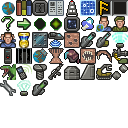
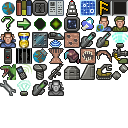
#588 Adds leader information to planet list view.
Adds tool tips to planet list view.

Changed region(s): [[0.375, 0.625, 0.5, 0.75]]

diff --git a/src/main/java/org/openRealmOfStars/gui/labels/PlanetInfoLabel.java b/src/main/java/org/openRealmOfStars/gui/labels/PlanetInfoLabel.java
@@ -95,9 +95,11 @@ public class PlanetInfoLabel extends EmptyInfoPanel {
     }
     IconLabel icon = new IconLabel(null, Icons.getIconByName(Icons.ICON_PEOPLE),
         String.valueOf(planet.getTotalPopulation()));
+    icon.setToolTipText("Planet's current population number.");
     addIcon(icon);
     icon = new IconLabel(null, Icons.getIconByName(Icons.ICON_FARM),
         String.valueOf(planet.getTotalProduction(Planet.PRODUCTION_FOOD)));
+    icon.setToolTipText("Planet's total food per star year.");
     int metalProd = planet.getTotalProduction(Planet.PRODUCTION_METAL);
     if (planet.getPlanetPlayerInfo() != null
         && planet.getPlanetPlayerInfo().getRace().isLithovorian()) {
@@ -105,23 +107,49 @@ public class PlanetInfoLabel extends EmptyInfoPanel {
     }
     icon = new IconLabel(null, Icons.getIconByName(Icons.ICON_MINE),
         String.valueOf(metalProd));
+    icon.setToolTipText("Planet's total metal per star year.");
     addIcon(icon);
     icon = new IconLabel(null, Icons.getIconByName(Icons.ICON_FACTORY),
         String.valueOf(planet.getTotalProduction(
         Planet.PRODUCTION_PRODUCTION)));
+    icon.setToolTipText("Planet's total production per star year.");
     addIcon(icon);
     icon = new IconLabel(null, Icons.getIconByName(Icons.ICON_RESEARCH),
         String.valueOf(planet.getTotalProduction(Planet.PRODUCTION_RESEARCH)));
+    icon.setToolTipText("Planet's research points per star year.");
     addIcon(icon);
     icon = new IconLabel(null, Icons.getIconByName(Icons.ICON_CULTURE),
         String.valueOf(planet.getTotalProduction(Planet.PRODUCTION_CULTURE)));
+    icon.setToolTipText("Planet's total culture production per star year.");
     addIcon(icon);
     icon = new IconLabel(null, Icons.getIconByName(Icons.ICON_CREDIT),
         String.valueOf(planet.getTotalProduction(Planet.PRODUCTION_CREDITS)));
+    icon.setToolTipText("<html>Planet's total credits production per star"
+        + " year.<br> Negative value means that planet upkeep cost credits."
+        + "<br>Positive value means that that planet produces credits."
+        + "</html>");
     addIcon(icon);
     int happyValue = planet.calculateHappiness();
     icon = new IconLabel(null, Icons.getHappyFace(happyValue),
         String.valueOf(happyValue));
+    if (planet.getPlanetPlayerInfo().getGovernment().isImmuneToHappiness()) {
+      icon.setToolTipText("Population is so heavily united that they do "
+          + "not feel unhappy or happy.");
+    } else {
+      icon.setToolTipText("<html>Planet happiness value. Positive value means"
+          + " that population is happy.<br> Negative value means that"
+          + " population is unhappy.</html>");
+    }
+    addIcon(icon);
+    if (planet.getGovernor() != null) {
+      icon = new IconLabel(null, Icons.getIconByName(Icons.ICON_LEADERS), "");
+      icon.setToolTipText("Planet has governor "
+          + planet.getGovernor().getName() + ".");
+    } else {
+      icon = new IconLabel(null, Icons.getIconByName(Icons.ICON_GREYED_LEADERS),
+          "");
+      icon.setToolTipText("Planet does not have governor.");
+    }
     addIcon(icon);
     constructionSelect = new JComboBox<>(this.planet.getProductionList());
     constructionSelect.setActionCommand(planet.getName() + "|"
@@ -131,6 +159,8 @@ public class PlanetInfoLabel extends EmptyInfoPanel {
     constructionSelect.setBorder(new SimpleBorder());
     constructionSelect.setFont(GuiStatics.getFontCubellan());
     constructionSelect.setRenderer(new ProductionListRenderer());
+    constructionSelect.setToolTipText("Current project to be build on the"
+        + " planet.");
     constructionSelect.setMaximumSize(new Dimension(Integer.MAX_VALUE,
         GuiStatics.TEXT_FIELD_HEIGHT));
     if (planet.getUnderConstruction() != null) {

diff --git a/src/test/java/org/openRealmOfStars/gui/labels/PlanetInfoLabelTest.java b/src/test/java/org/openRealmOfStars/gui/labels/PlanetInfoLabelTest.java
@@ -7,6 +7,9 @@ import java.awt.event.ActionListener;
 import org.junit.Test;
 import org.junit.experimental.categories.Category;
 import org.mockito.Mockito;
+import org.openRealmOfStars.player.PlayerInfo;
+import org.openRealmOfStars.player.SpaceRace.SpaceRace;
+import org.openRealmOfStars.player.government.GovernmentType;
 import org.openRealmOfStars.starMap.planet.Planet;
 import org.openRealmOfStars.starMap.planet.PlanetTypes;
 import org.openRealmOfStars.starMap.planet.construction.Construction;
@@ -14,7 +17,7 @@ import org.openRealmOfStars.starMap.planet.construction.Construction;
 /**
  * 
  * Open Realm of Stars game project
- * Copyright (C) 2018  Tuomo Untinen
+ * Copyright (C) 2018,2023 Tuomo Untinen
  *
  * This program is free software; you can redistribute it and/or
  * modify it under the terms of the GNU General Public License
@@ -40,6 +43,10 @@ public class PlanetInfoLabelTest {
   public void testBasic() {
     ActionListener listener = Mockito.mock(ActionListener.class);
     Planet target = Mockito.mock(Planet.class);
+    PlayerInfo realm = Mockito.mock(PlayerInfo.class);
+    Mockito.when(realm.getRace()).thenReturn(SpaceRace.HUMAN);
+    Mockito.when(realm.getGovernment()).thenReturn(GovernmentType.AI);
+    Mockito.when(target.getPlanetPlayerInfo()).thenReturn(realm);
     Mockito.when(target.getPlanetType()).thenReturn(PlanetTypes.ICEWORLD1);
     Construction[] list = new Construction[1];
     list[0] = Mockito.mock(Construction.class);

diff --git a/src/test/java/org/openRealmOfStars/game/States/PlanetListViewTest.java b/src/test/java/org/openRealmOfStars/game/States/PlanetListViewTest.java
@@ -22,7 +22,7 @@ import org.openRealmOfStars.starMap.planet.construction.Construction;
 /**
 *
 * Open Realm of Stars game project
-* Copyright (C) 2018,2021,2022 Tuomo Untinen
+* Copyright (C) 2018,2021-2023 Tuomo Untinen
 *
 * This program is free software; you can redistribute it and/or
 * modify it under the terms of the GNU General Public License
@@ -54,6 +54,7 @@ public class PlanetListViewTest {
     listOfPlanets.add(planet2);
     PlayerInfo realm = Mockito.mock(PlayerInfo.class);
     Mockito.when(realm.getRace()).thenReturn(SpaceRace.HUMAN);
+    Mockito.when(realm.getGovernment()).thenReturn(GovernmentType.AI);
     Mockito.when(planet1.getPlanetPlayerInfo()).thenReturn(realm);
     Mockito.when(planet1.getPlanetType()).thenReturn(PlanetTypes.ICEWORLD1);
     Mockito.when(planet2.getPlanetPlayerInfo()).thenReturn(realm);
@@ -80,6 +81,7 @@ public class PlanetListViewTest {
     listOfPlanets.add(planet2);
     PlayerInfo realm = Mockito.mock(PlayerInfo.class);
     Mockito.when(realm.getRace()).thenReturn(SpaceRace.LITHORIANS);
+    Mockito.when(realm.getGovernment()).thenReturn(GovernmentType.EMPIRE);
     Mockito.when(planet1.getPlanetPlayerInfo()).thenReturn(realm);
     Mockito.when(planet1.getPlanetType()).thenReturn(PlanetTypes.ICEWORLD1);
     Mockito.when(planet2.getPlanetPlayerInfo()).thenReturn(realm);

diff --git a/src/main/java/org/openRealmOfStars/gui/icons/Icons.java b/src/main/java/org/openRealmOfStars/gui/icons/Icons.java
@@ -474,6 +474,10 @@ public final class Icons {
    * Gravity ripper
    */
   public static final String ICON_GRAVITY_RIPPER = "IconGravityRipper";
+  /**
+   * Greyed leaders
+   */
+  public static final String ICON_GREYED_LEADERS = "IconGreyedLeaders";
 
   /**
    * List of Icon
@@ -806,6 +810,8 @@ public final class Icons {
     icon = new Icon16x16(image, 1, 5, ICON_MULTIDIMENSION_SHIELD);
     addIcon(icon);
     icon = new Icon16x16(image, 2, 5, ICON_GRAVITY_RIPPER);
+    addIcon(icon);
+    icon = new Icon16x16(image, 3, 5, ICON_GREYED_LEADERS);
     addIcon(icon);
   }
 

diff --git a/src/main/java/org/openRealmOfStars/game/States/PlanetListView.java b/src/main/java/org/openRealmOfStars/game/States/PlanetListView.java
@@ -24,7 +24,7 @@ import org.openRealmOfStars.starMap.planet.construction.Construction;
 /**
 *
 * Open Realm of Stars game project
-* Copyright (C) 2018  Tuomo Untinen
+* Copyright (C) 2018,2023 Tuomo Untinen
 *
 * This program is free software; you can redistribute it and/or
 * modify it under the terms of the GNU General Public License
